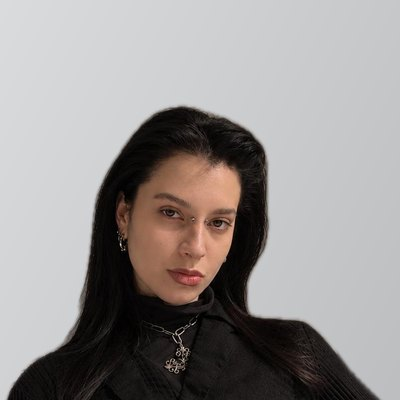
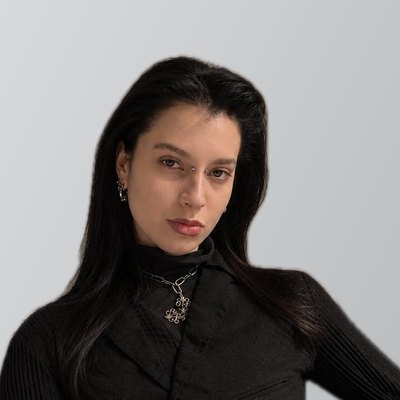
fix: Hanna Czosnowicz photo framed higher

diff --git a/en.html b/en.html
@@ -181,7 +181,7 @@
     <a class="person" href="https://www.linkedin.com/in/maria-dorota-zyskowska/" target="_blank" rel="noopener" aria-label="Maria Zyskowska Partnerships (LinkedIn)"><div class="uni"><img width="408" height="212" src="assets/logos/tum.svg" alt="Technical University of Munich" loading="lazy" decoding="async"></div><div class="ph"><img width="400" height="500" src="assets/img/team/maria-zyskowska.jpg" alt="Maria Zyskowska" loading="lazy" decoding="async"></div><h3>Maria Zyskowska</h3><p class="mono">Partnerships</p></a>
     <a class="person" href="https://www.linkedin.com/in/piotrnobis/" target="_blank" rel="noopener" aria-label="Piotr Nobis Partnerships (LinkedIn)"><div class="uni"><img width="408" height="212" src="assets/logos/tum.svg" alt="Technical University of Munich" loading="lazy" decoding="async"></div><div class="ph"><img width="400" height="500" src="assets/img/team/piotr-nobis.jpg" alt="Piotr Nobis" loading="lazy" decoding="async"></div><h3>Piotr Nobis</h3><p class="mono">Partnerships</p></a>
     <a class="person" href="https://www.linkedin.com/in/konrad-marciniak-uchicago/" target="_blank" rel="noopener" aria-label="Konrad Marciniak Partnerships (LinkedIn)"><div class="uni"><img width="250" height="63" src="assets/logos/uchicago.svg" alt="University of Chicago" loading="lazy" decoding="async"></div><div class="ph"><img width="400" height="400" src="assets/img/team/konrad-marciniak.jpg" alt="Konrad Marciniak" loading="lazy" decoding="async"></div><h3>Konrad Marciniak</h3><p class="mono">Partnerships</p></a>
-    <a class="person" href="https://www.linkedin.com/in/hanna-czosnowicz-994843317/" target="_blank" rel="noopener" aria-label="Hanna Czosnowicz Head of Media Partnerships (LinkedIn)"><div class="uni"><img width="286" height="160" src="assets/logos/eur-card.png" alt="Erasmus University Rotterdam" loading="lazy" decoding="async"></div><div class="ph"><img width="400" height="400" src="assets/img/team/hanna-czosnowicz.jpg" alt="Hanna Czosnowicz" loading="lazy" decoding="async"></div><h3>Hanna Czosnowicz</h3><p class="mono">Head of Media Partnerships</p></a>
+    <a class="person" href="https://www.linkedin.com/in/hanna-czosnowicz-994843317/" target="_blank" rel="noopener" aria-label="Hanna Czosnowicz Head of Media Partnerships (LinkedIn)"><div class="uni"><img width="286" height="160" src="assets/logos/eur-card.png" alt="Erasmus University Rotterdam" loading="lazy" decoding="async"></div><div class="ph"><img width="400" height="400" src="assets/img/team/hanna-czosnowicz.jpg?v=2" alt="Hanna Czosnowicz" loading="lazy" decoding="async"></div><h3>Hanna Czosnowicz</h3><p class="mono">Head of Media Partnerships</p></a>
     <a class="person" href="https://www.linkedin.com/in/alicjadorobis/" target="_blank" rel="noopener" aria-label="Alicja Dorobis Program (LinkedIn)"><div class="uni"><img width="230" height="46" src="assets/logos/uva.svg" alt="University of Amsterdam" loading="lazy" decoding="async"></div><div class="ph"><img width="400" height="400" src="assets/img/team/alicja-dorobis.jpg" alt="Alicja Dorobis" loading="lazy" decoding="async"></div><h3>Alicja Dorobis</h3><p class="mono">Program</p></a>
     <a class="person" href="https://www.linkedin.com/in/jakubpartyka/" target="_blank" rel="noopener" aria-label="Jakub Partyka Program (LinkedIn)"><div class="uni"><img width="249" height="99" src="assets/logos/tudelft-card.png" alt="TU Delft" loading="lazy" decoding="async"></div><div class="ph flap" role="img" aria-label="Jakub Partyka"><span>J</span><span>P</span></div><h3>Jakub Partyka</h3><p class="mono">Program</p></a>
     <a class="person" href="https://www.linkedin.com/in/wiktoriatrybus/" target="_blank" rel="noopener" aria-label="Wiktoria Trybus Creative (LinkedIn)"><div class="uni"><img width="157" height="34" src="assets/logos/esdm.svg" alt="Escuela Superior de Diseño de Madrid" loading="lazy" decoding="async"></div><div class="ph"><img width="400" height="400" src="assets/img/team/wiktoria-trybus.jpg" alt="Wiktoria Trybus" loading="lazy" decoding="async"></div><h3>Wiktoria Trybus</h3><p class="mono">Creative</p></a>

diff --git a/index.html b/index.html
@@ -181,7 +181,7 @@
     <a class="person" href="https://www.linkedin.com/in/maria-dorota-zyskowska/" target="_blank" rel="noopener" aria-label="Maria Zyskowska Partnerships (LinkedIn)"><div class="uni"><img width="408" height="212" src="assets/logos/tum.svg" alt="Technical University of Munich" loading="lazy" decoding="async"></div><div class="ph"><img width="400" height="500" src="assets/img/team/maria-zyskowska.jpg" alt="Maria Zyskowska" loading="lazy" decoding="async"></div><h3>Maria Zyskowska</h3><p class="mono">Partnerships</p></a>
     <a class="person" href="https://www.linkedin.com/in/piotrnobis/" target="_blank" rel="noopener" aria-label="Piotr Nobis Partnerships (LinkedIn)"><div class="uni"><img width="408" height="212" src="assets/logos/tum.svg" alt="Technical University of Munich" loading="lazy" decoding="async"></div><div class="ph"><img width="400" height="500" src="assets/img/team/piotr-nobis.jpg" alt="Piotr Nobis" loading="lazy" decoding="async"></div><h3>Piotr Nobis</h3><p class="mono">Partnerships</p></a>
     <a class="person" href="https://www.linkedin.com/in/konrad-marciniak-uchicago/" target="_blank" rel="noopener" aria-label="Konrad Marciniak Partnerships (LinkedIn)"><div class="uni"><img width="250" height="63" src="assets/logos/uchicago.svg" alt="University of Chicago" loading="lazy" decoding="async"></div><div class="ph"><img width="400" height="400" src="assets/img/team/konrad-marciniak.jpg" alt="Konrad Marciniak" loading="lazy" decoding="async"></div><h3>Konrad Marciniak</h3><p class="mono">Partnerships</p></a>
-    <a class="person" href="https://www.linkedin.com/in/hanna-czosnowicz-994843317/" target="_blank" rel="noopener" aria-label="Hanna Czosnowicz Head of Media Partnerships (LinkedIn)"><div class="uni"><img width="286" height="160" src="assets/logos/eur-card.png" alt="Erasmus University Rotterdam" loading="lazy" decoding="async"></div><div class="ph"><img width="400" height="400" src="assets/img/team/hanna-czosnowicz.jpg" alt="Hanna Czosnowicz" loading="lazy" decoding="async"></div><h3>Hanna Czosnowicz</h3><p class="mono">Head of Media Partnerships</p></a>
+    <a class="person" href="https://www.linkedin.com/in/hanna-czosnowicz-994843317/" target="_blank" rel="noopener" aria-label="Hanna Czosnowicz Head of Media Partnerships (LinkedIn)"><div class="uni"><img width="286" height="160" src="assets/logos/eur-card.png" alt="Erasmus University Rotterdam" loading="lazy" decoding="async"></div><div class="ph"><img width="400" height="400" src="assets/img/team/hanna-czosnowicz.jpg?v=2" alt="Hanna Czosnowicz" loading="lazy" decoding="async"></div><h3>Hanna Czosnowicz</h3><p class="mono">Head of Media Partnerships</p></a>
     <a class="person" href="https://www.linkedin.com/in/alicjadorobis/" target="_blank" rel="noopener" aria-label="Alicja Dorobis Program (LinkedIn)"><div class="uni"><img width="230" height="46" src="assets/logos/uva.svg" alt="University of Amsterdam" loading="lazy" decoding="async"></div><div class="ph"><img width="400" height="400" src="assets/img/team/alicja-dorobis.jpg" alt="Alicja Dorobis" loading="lazy" decoding="async"></div><h3>Alicja Dorobis</h3><p class="mono">Program</p></a>
     <a class="person" href="https://www.linkedin.com/in/jakubpartyka/" target="_blank" rel="noopener" aria-label="Jakub Partyka Program (LinkedIn)"><div class="uni"><img width="249" height="99" src="assets/logos/tudelft-card.png" alt="TU Delft" loading="lazy" decoding="async"></div><div class="ph flap" role="img" aria-label="Jakub Partyka"><span>J</span><span>P</span></div><h3>Jakub Partyka</h3><p class="mono">Program</p></a>
     <a class="person" href="https://www.linkedin.com/in/wiktoriatrybus/" target="_blank" rel="noopener" aria-label="Wiktoria Trybus Creative (LinkedIn)"><div class="uni"><img width="157" height="34" src="assets/logos/esdm.svg" alt="Escuela Superior de Diseño de Madrid" loading="lazy" decoding="async"></div><div class="ph"><img width="400" height="400" src="assets/img/team/wiktoria-trybus.jpg" alt="Wiktoria Trybus" loading="lazy" decoding="async"></div><h3>Wiktoria Trybus</h3><p class="mono">Creative</p></a>
